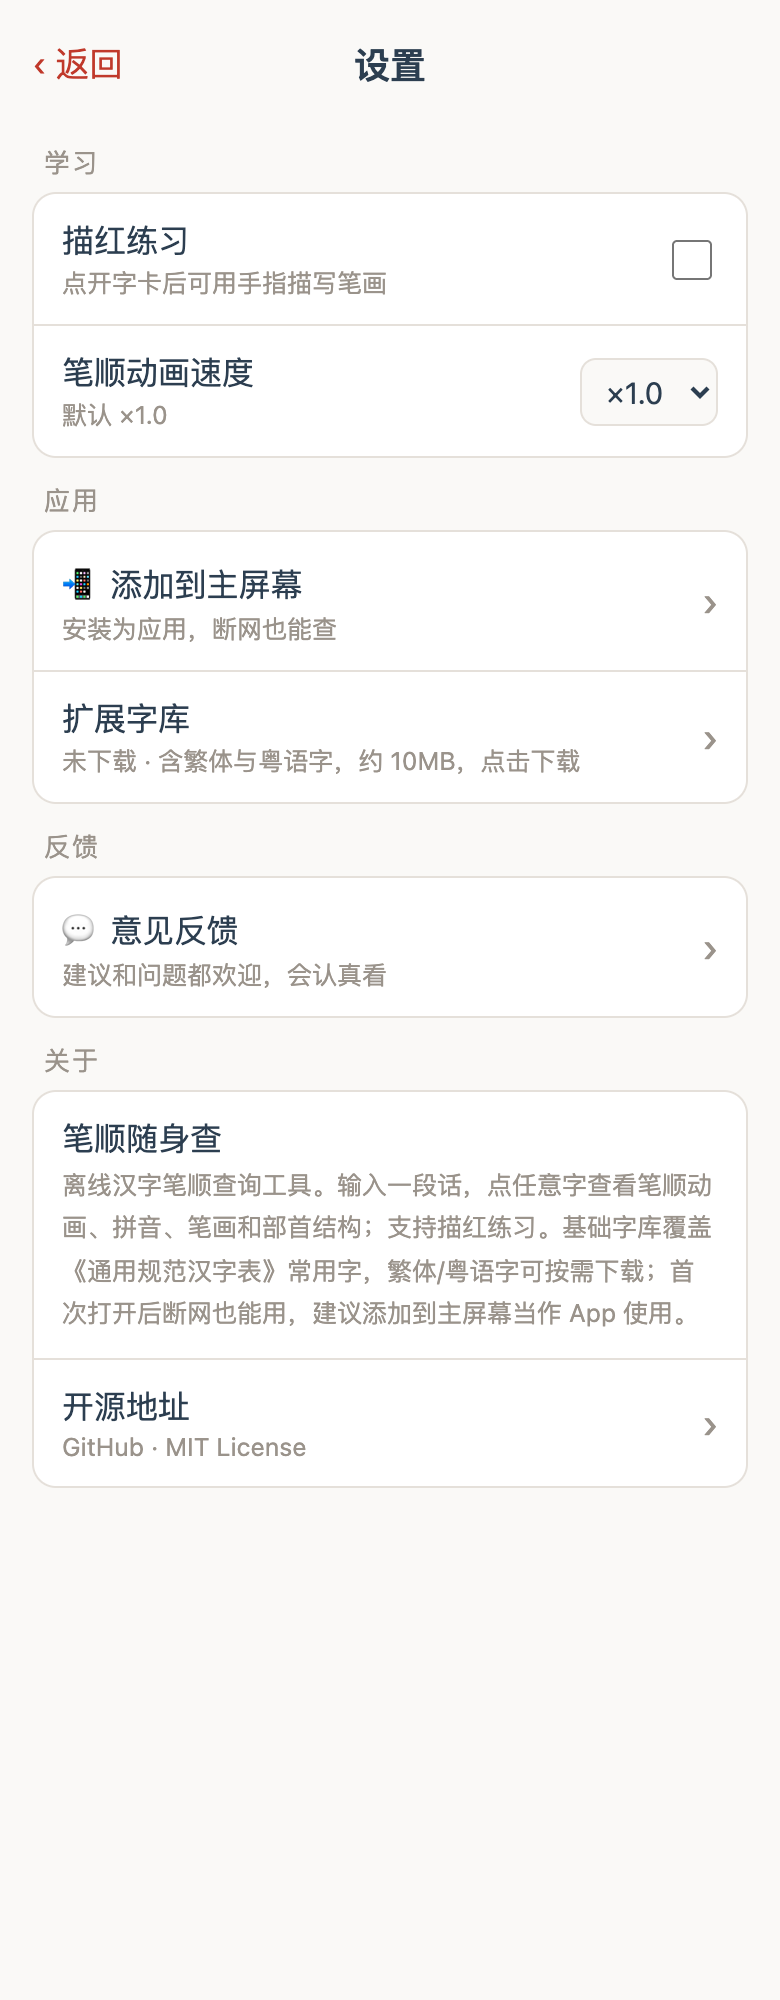
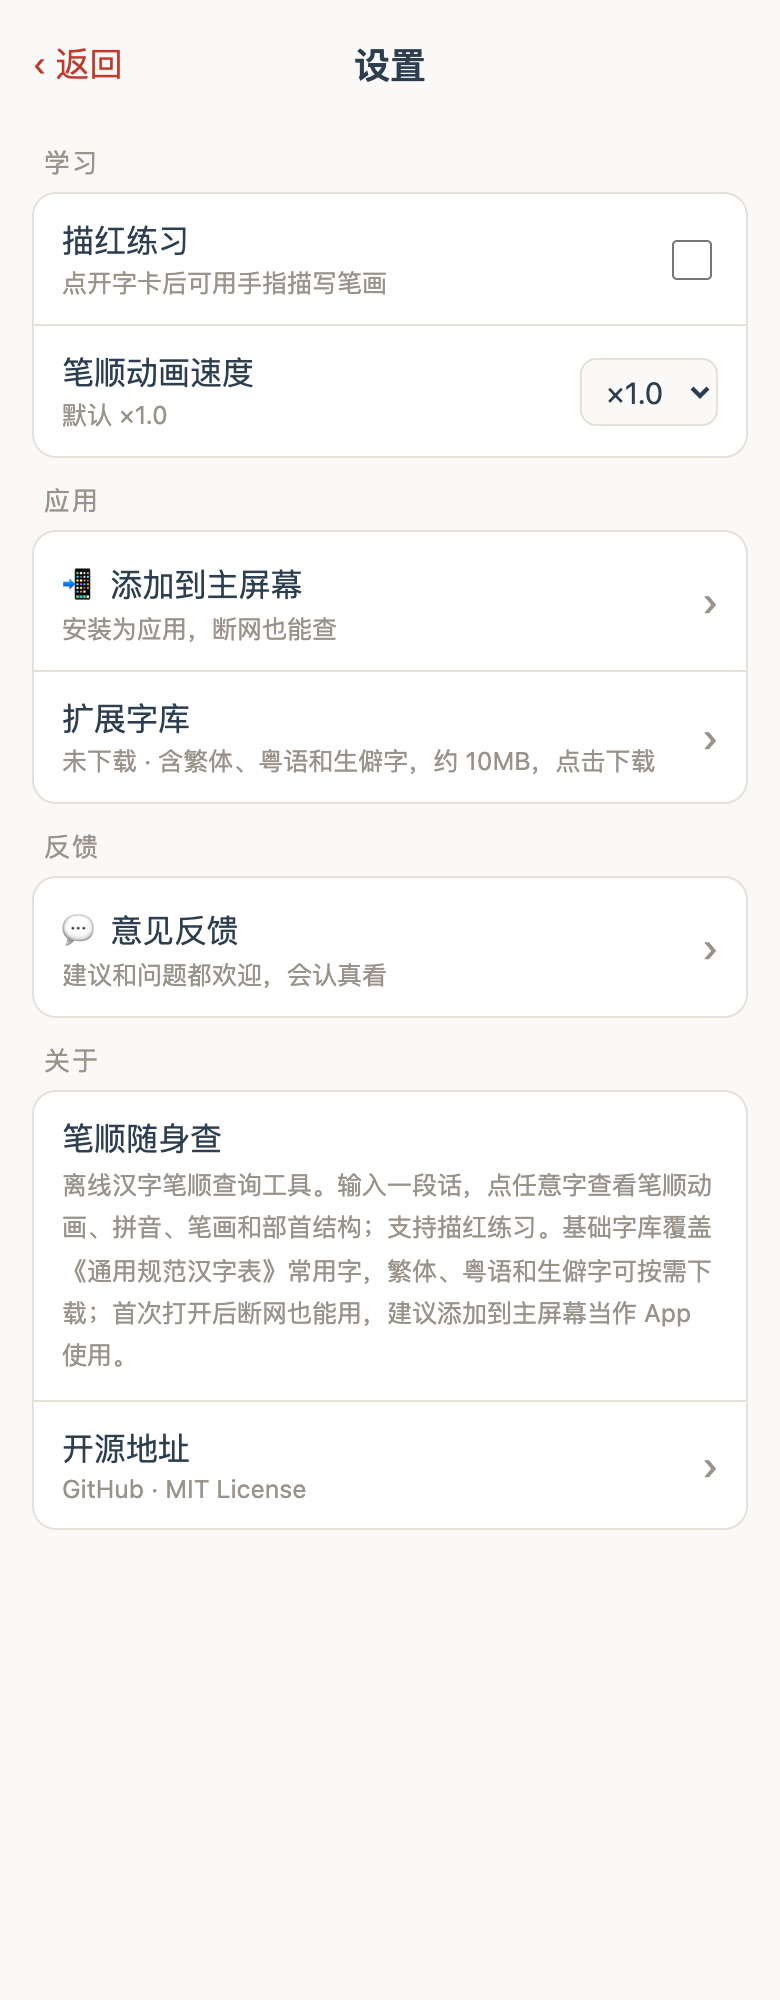
统一扩展字库文案为「繁体、粤语和生僻字」；提示标题不再做不准确的单字分类
原标题只写「繁体字或生僻字」，漏了粤语且对具体字断言不准。
改为中性表述「「X」需下载扩展字库」，分类信息统一放在正文。
同步更新设置状态、关于介绍、删除确认、README 及注释。

diff --git a/src/main.ts b/src/main.ts
@@ -88,7 +88,7 @@ app.innerHTML = `
       <button id="trad-pack-btn" class="setting-item setting-action">
         <span class="setting-label">
           <span>扩展字库</span>
-          <small id="trad-pack-status">未下载 · 含繁体与粤语字，约 10MB</small>
+          <small id="trad-pack-status">未下载 · 含繁体、粤语和生僻字，约 10MB</small>
         </span>
         <span class="chevron">›</span>
       </button>
@@ -110,7 +110,7 @@ app.innerHTML = `
       <div class="setting-item about-text">
         <span class="setting-label">
           <span>笔顺随身查</span>
-          <small>离线汉字笔顺查询工具。输入一段话，点任意字查看笔顺动画、拼音、笔画和部首结构；支持描红练习。基础字库覆盖《通用规范汉字表》常用字，繁体/粤语字可按需下载；首次打开后断网也能用，建议添加到主屏幕当作 App 使用。</small>
+          <small>离线汉字笔顺查询工具。输入一段话，点任意字查看笔顺动画、拼音、笔画和部首结构；支持描红练习。基础字库覆盖《通用规范汉字表》常用字，繁体、粤语和生僻字可按需下载；首次打开后断网也能用，建议添加到主屏幕当作 App 使用。</small>
         </span>
       </div>
       <a class="setting-item setting-action" href="https://github.com/dezhaohe/bishun" target="_blank" rel="noopener">
@@ -171,7 +171,7 @@ app.innerHTML = `
   <div id="trad-prompt" class="install-banner" hidden>
     <div class="install-text">
       <strong id="trad-prompt-title"></strong>
-      <span>该字不在基础字库中。可下载扩展字库（2724 个繁体、粤语及生僻字，约 10MB，仅需一次，下载后离线可用）。</span>
+      <span>该字不在基础字库中。可下载扩展字库（2724 个繁体、粤语和生僻字，约 10MB，仅需一次，下载后离线可用）。</span>
     </div>
     <div class="install-actions">
       <button id="trad-download" class="action-btn install-primary">下载扩展字库</button>
@@ -269,7 +269,7 @@ function renderChars() {
     const inTradPack = !available && tradIndex.has(ch);
     if (inTradPack) {
       btn.classList.add('trad');
-      btn.title = '可下载繁体扩展字库';
+      btn.title = '可下载扩展字库查看';
     } else if (!available) {
       btn.classList.add('unavailable');
       btn.title = '暂无笔顺数据';
@@ -470,7 +470,7 @@ feedbackSubmit.addEventListener('click', async () => {
   }
 });
 
-// ---------- 繁体扩展字库（按需下载） ----------
+// ---------- 扩展字库（繁体、粤语和生僻字，按需下载） ----------
 const tradPrompt = $('#trad-prompt');
 const tradDownloadBtn = $<HTMLButtonElement>('#trad-download');
 const tradStatusEl = $('#trad-pack-status');
@@ -479,8 +479,8 @@ let tradDownloading = false;
 
 function updateTradStatus() {
   tradStatusEl.textContent = localStorage.getItem(TRAD_KEY)
-    ? `已下载 · ${tradIndex.size} 个繁体/粤语字，点击可删除`
-    : '未下载 · 含繁体与粤语字，约 10MB，点击下载';
+    ? `已下载 · ${tradIndex.size} 个繁体、粤语和生僻字，点击可删除`
+    : '未下载 · 含繁体、粤语和生僻字，约 10MB，点击下载';
 }
 
 // 共享的下载逻辑：字卡提示和设置项两个入口都走这里
@@ -503,7 +503,7 @@ async function doDownloadTradPack(): Promise<boolean> {
 
 function showTradPrompt(ch: string) {
   tradPendingChar = ch;
-  $('#trad-prompt-title').textContent = `「${ch}」是繁体字或生僻字`;
+  $('#trad-prompt-title').textContent = `「${ch}」需下载扩展字库`;
   $('#install-banner').hidden = true; // 避免与安装引导条重叠
   tradPrompt.hidden = false;
 }
@@ -525,7 +525,7 @@ tradDownloadBtn.addEventListener('click', async () => {
 // 设置里的扩展字库入口：未下载 → 下载；已下载 → 可删除（删除后随时可重新下载）
 $('#trad-pack-btn').addEventListener('click', async () => {
   if (localStorage.getItem(TRAD_KEY)) {
-    if (confirm('删除扩展字库？删除后繁体/粤语字将不可查，可随时重新下载。')) {
+    if (confirm('删除扩展字库？删除后繁体、粤语和生僻字将不可查，可随时重新下载。')) {
       localStorage.removeItem(TRAD_KEY);
       await caches.delete('bishun-trad-pack').catch(() => {});
       location.reload();

diff --git a/README.en.md b/README.en.md
@@ -6,7 +6,7 @@
 
 <p align="center">
   <img src="docs/screenshot-main.png" width="260" alt="Paste a paragraph, tap any character" />
-  <img src="docs/screenshot-canto.png" width="260" alt="On-demand traditional/Cantonese pack" />
+  <img src="docs/screenshot-canto.png" width="260" alt="On-demand traditional, Cantonese and rare characters" />
   <img src="docs/screenshot-settings.png" width="260" alt="Settings" />
 </p>
 
@@ -20,7 +20,7 @@ Unlike stroke-order websites that require one online query per character, this t
 - **Tracing practice** (optional, off by default): trace each stroke with your finger; wrong strokes prompt a retry
 - **Fully offline**: the Service Worker precaches ~20MB of stroke data (~8MB gzipped, downloaded once)
 - **Coverage**: 6,866 of the 8,105 characters in China's Table of General Standard Chinese Characters — >99.9% of everyday text
-- **On-demand extension pack**: tapping a traditional/Cantonese character offers a one-tap download of the extension pack (2,724 characters, ~10MB), which then also works offline — keeping the first-load experience light
+- **On-demand extension pack**: tapping a traditional, Cantonese or rare character offers a one-tap download of the extension pack (2,724 characters, ~10MB), which then also works offline — keeping the first-load experience light
 - **Cantonese support**: common Hong Kong Cantonese characters (哋咗佢冇嗰喺搵攞…) missing from every open dataset are synthesized from real glyph components with Jyutping annotations (see `scripts/canto.mjs`)
 
 ## 📱 Install on your phone

diff --git a/README.md b/README.md
@@ -6,7 +6,7 @@
 
 <p align="center">
   <img src="docs/screenshot-main.png" width="260" alt="整段识别，点字看笔顺动画" />
-  <img src="docs/screenshot-canto.png" width="260" alt="繁体/粤语字按需下载" />
+  <img src="docs/screenshot-canto.png" width="260" alt="繁体、粤语和生僻字按需下载" />
   <img src="docs/screenshot-settings.png" width="260" alt="设置" />
 </p>
 
@@ -20,7 +20,7 @@
 - **描红练习**：可选开启（设置 ⚙ 中），手指沿轮廓逐笔描写，写错提示重画
 - **完全离线**：Service Worker 预缓存约 20MB 笔顺数据（gzip 传输约 8MB，仅首次下载）
 - **字库**：《通用规范汉字表》8105 字中有笔顺数据的 6866 字，覆盖日常文本 99.9% 以上
-- **扩展字库按需下载**：点到繁体/粤语字时提示一键下载扩展包（2724 字，约 10MB），下载后同样离线可用，不拖累首次体验
+- **扩展字库按需下载**：点到繁体、粤语或生僻字时提示一键下载扩展包（2724 字，约 10MB），下载后同样离线可用，不拖累首次体验
 - **粤语字支持**：哋咗佢冇嗰喺搵攞等常用香港粤语字（开源数据源均未覆盖，本项目用真实字形部件合成笔顺数据并标注粤拼，见 `scripts/canto.mjs`）
 
 ## 📱 手机安装（推荐）